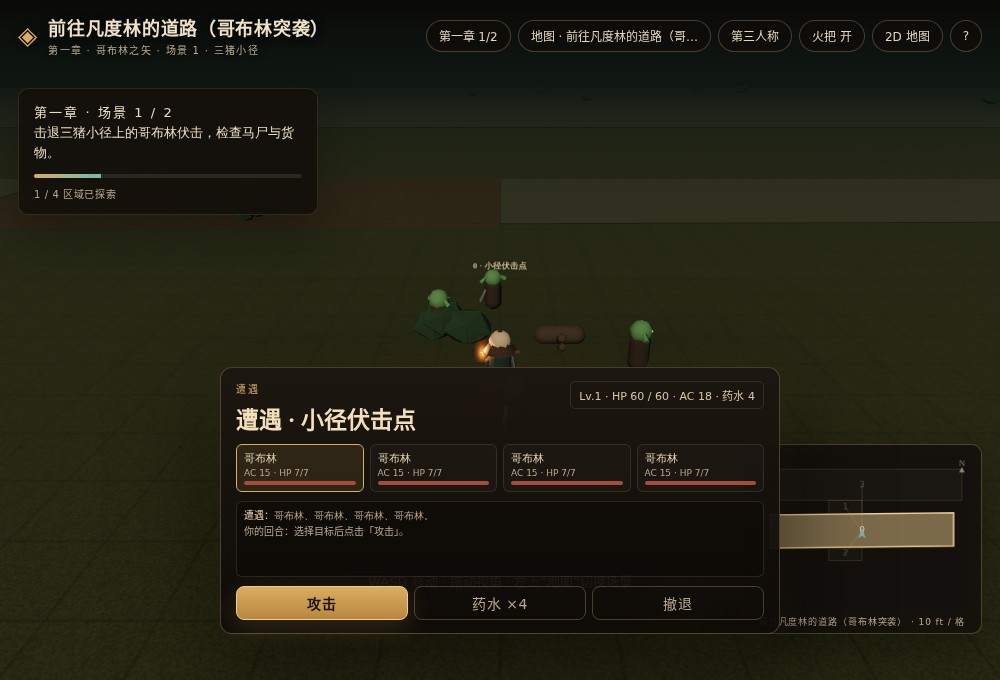
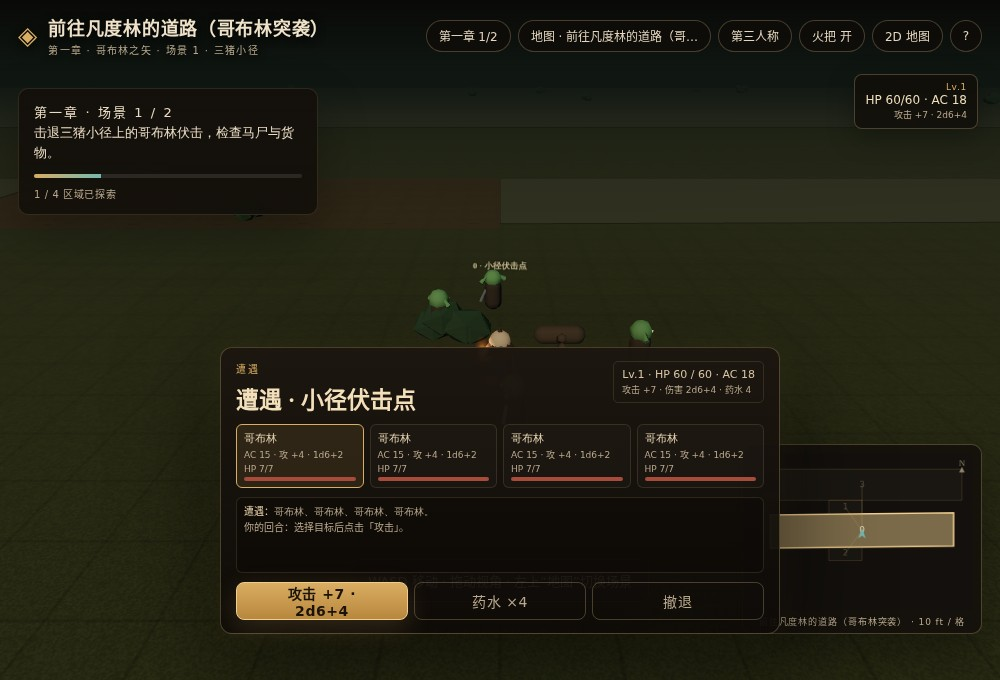
feat(lmop-3d): show full character stats
- persistent HUD with level, HP, AC, attack and damage
- character sheet with abilities, saves, all 18 skills, initiative, speed, proficiency, passive perception, potions and XP
- combat HUD and enemy cards show attack/damage/AC/HP
- intro summary and updated screenshots

diff --git a/prototype/lmop-3d/main.js b/prototype/lmop-3d/main.js
@@ -25,8 +25,18 @@ const CAMPAIGN = [
     objective: '穿过暗哨、狼舍与天桥，找到区域 8 的克拉格，救出西达尔。', done: '克拉格已击败，西达尔获救。',
     outro: '克拉格倒下，西达尔·荷温特获救。他告诉你：刚铎被带去了克拉格莫城堡。' },
 ];
-const PLAYER_BASE = { level: 1, hp: 60, maxHp: 60, ac: 18, atk: 7, dmg: [2, 6, 4], potions: 4, xp: 0 };
-const PLAYER_LEVEL2 = { level: 2, hp: 80, maxHp: 80, ac: 19, atk: 8, dmg: [2, 8, 4], potions: 5, xp: 200 };
+const PLAYER_BASE = {
+  level: 1, hp: 60, maxHp: 60, ac: 18, atk: 7, dmg: [2, 6, 4], potions: 4, xp: 0, speed: 30, prof: 2,
+  abilities: { str: 16, dex: 14, con: 14, int: 10, wis: 12, cha: 10 },
+  saves: { str: 5, dex: 2, con: 2, int: 0, wis: 1, cha: 0 },
+  skills: { athletics: 5, acrobatics: 4, sleight: 2, stealth: 4, investigation: 0, perception: 3, survival: 3, persuasion: 2, deception: 2, intimidation: 2, insight: 3, medicine: 1, nature: 1, religion: 0, history: 0, arcana: 0, animal: 3, performance: 2 },
+};
+const PLAYER_LEVEL2 = {
+  level: 2, hp: 80, maxHp: 80, ac: 19, atk: 8, dmg: [2, 8, 4], potions: 5, xp: 200, speed: 30, prof: 3,
+  abilities: { str: 18, dex: 16, con: 16, int: 10, wis: 12, cha: 10 },
+  saves: { str: 6, dex: 3, con: 3, int: 0, wis: 1, cha: 0 },
+  skills: { athletics: 7, acrobatics: 5, sleight: 3, stealth: 5, investigation: 0, perception: 4, survival: 4, persuasion: 3, deception: 3, intimidation: 3, insight: 4, medicine: 1, nature: 1, religion: 0, history: 0, arcana: 0, animal: 3, performance: 2 },
+};
 const MONSTER_STATS = {
   goblin: { ac: 15, hp: 7, atk: 4, dmg: [1, 6, 2], xp: 50 },
   'goblin-boss': { ac: 15, hp: 10, atk: 4, dmg: [1, 6, 2], xp: 100 },
@@ -38,6 +48,17 @@ const MONSTER_STATS = {
   spider: { ac: 14, hp: 26, atk: 5, dmg: [1, 8, 3], xp: 200 },
   twig: { ac: 13, hp: 4, atk: 3, dmg: [1, 4, 1], xp: 25 },
 };
+const ABILITY_ZH = { str: '力量', dex: '敏捷', con: '体质', int: '智力', wis: '感知', cha: '魅力' };
+const SKILLS = [
+  ['athletics', '运动', 'str'], ['acrobatics', '体操', 'dex'], ['stealth', '隐匿', 'dex'], ['perception', '察觉', 'wis'],
+  ['investigation', '调查', 'int'], ['survival', '生存', 'wis'], ['persuasion', '游说', 'cha'], ['deception', '欺瞒', 'cha'],
+  ['intimidation', '威吓', 'cha'], ['insight', '洞悉', 'wis'], ['medicine', '医药', 'wis'], ['nature', '自然', 'int'],
+  ['religion', '宗教', 'int'], ['history', '历史', 'int'], ['arcana', '奥秘', 'int'], ['animal', '驯兽', 'wis'],
+  ['sleight', '巧手', 'dex'], ['performance', '表演', 'cha'],
+];
+function mod(score) { return Math.floor((score - 10) / 2); }
+function signed(n) { return n >= 0 ? `+${n}` : `${n}`; }
+function damageText(p = playerStats) { return `${p.dmg[0]}d${p.dmg[1]}${p.dmg[2] ? '+' + p.dmg[2] : ''}`; }
 function playerStatsReset() { Object.assign(playerStats, PLAYER_BASE); }
 function playerStatsLevel2() { Object.assign(playerStats, PLAYER_LEVEL2); }
 const playerStats = { ...PLAYER_BASE };
@@ -189,6 +210,7 @@ function loadMap(mapId, { initial = false, quiet = false, campaign = false } = {
   if (world) { disposeGroup(world.group); world = null; player = null; }
   if (region) { disposeGroup(region.group); region = null; }
   clearTimeout(state.encounterTimer);
+  closeSheet();
   combat = null;
   $('#combat').classList.add('hidden');
   $('#area-encounter').classList.add('hidden');
@@ -242,6 +264,7 @@ function loadMap(mapId, { initial = false, quiet = false, campaign = false } = {
   updateBrand();
   updateObjective();
   updateIntro();
+  updatePlayerHud();
   drawMinimap();
   if (!initial && !quiet) toastMsg(`已切换到 ${map.title}`, 1800);
 }
@@ -262,6 +285,8 @@ function updateIntro() {
   if (stat) stat.textContent = state.campaign.active ? '2' : String((map.areas || []).length || (map.sites || []).length);
   const statLabel = document.querySelector('.intro-card .stat span');
   if (statLabel) statLabel.textContent = state.campaign.active ? '场景' : '区域';
+  const line = $('#intro-sheet-line');
+  if (line) line.textContent = `Lv.${playerStats.level} · HP ${playerStats.hp} · AC ${playerStats.ac} · 攻击 ${signed(playerStats.atk)} · 伤害 ${damageText()} · 药水 ${playerStats.potions}`;
 }
 
 function updateBrand() {
@@ -310,6 +335,7 @@ function showModeUi() {
     $('#area-panel').classList.add('hidden');
     $('#region-panel').classList.add('hidden');
     $('#minimap-wrap').classList.add('hidden');
+    $('#btn-sheet').classList.add('hidden');
   }
 }
 
@@ -393,6 +419,8 @@ function bindUI() {
     toastMsg('自由探索模式', 1800);
   });
   $('#btn-story').addEventListener('click', resumeCampaign);
+  $('#btn-sheet').addEventListener('click', toggleSheet);
+  $('#sheet-close').addEventListener('click', closeSheet);
   $('#area-encounter').addEventListener('click', () => { if (state.pendingEncounter && !combat) startCombat(state.pendingEncounter); });
   $('#combat-attack').addEventListener('click', playerAttack);
   $('#combat-potion').addEventListener('click', usePotion);
@@ -432,9 +460,10 @@ function bindUI() {
     if (['KeyW', 'KeyA', 'KeyS', 'KeyD', 'ArrowUp', 'ArrowDown', 'ArrowLeft', 'ArrowRight', 'ShiftLeft', 'ShiftRight'].includes(e.code)) {
       state.keys.add(e.code); if (e.code.startsWith('Arrow')) e.preventDefault();
     }
+    if (e.code === 'KeyC') toggleSheet();
     if (e.code === 'KeyF') toggleTorch();
     if (e.code === 'KeyR') resetPlayer();
-    if (e.code === 'Escape') closePicker();
+    if (e.code === 'Escape') { closePicker(); closeSheet(); }
   });
   window.addEventListener('keyup', (e) => state.keys.delete(e.code));
   window.addEventListener('blur', () => state.keys.clear());
@@ -492,7 +521,9 @@ function start() {
   $('#intro').classList.add('hidden');
   $('#loading').classList.add('hidden');
   $('#topbar').classList.remove('hidden');
+  $('#btn-sheet').classList.remove('hidden');
   showModeUi();
+  updatePlayerHud();
   updateObjective();
   if (state.mode === 'map') { if (state.currentArea) updatePanel(state.currentArea); drawMinimap(); }
   setTimeout(() => toastMsg(state.mode === 'region' ? '拖动旋转 · 滚轮缩放 · 点击地点' : isTouchDevice ? '左侧摇杆移动 · 右侧拖动视角 · 左上“地图”切换场景' : 'WASD 移动 · 拖动视角 · 左上“地图”切换场景', 3400), 500);
@@ -501,6 +532,36 @@ function start() {
 }
 
 
+
+
+/* ---------------------------------------------------------------- character sheet */
+function updatePlayerHud() {
+  const b = $('#btn-sheet');
+  if (!b) return;
+  $('#ph-level').textContent = `Lv.${playerStats.level}`;
+  $('#ph-main').textContent = `HP ${Math.max(0, playerStats.hp)}/${playerStats.maxHp} · AC ${playerStats.ac}`;
+  $('#ph-sub').textContent = `攻击 ${signed(playerStats.atk)} · ${damageText()}`;
+  b.title = `角色数值（C）· Lv.${playerStats.level}`;
+}
+function renderSheet() {
+  if ($('#sheet').classList.contains('hidden')) return;
+  const p = playerStats;
+  $('#sheet-name').textContent = '冒险者';
+  $('#sheet-sub').textContent = `Lv.${p.level} · 竖切片角色 · ${p.level >= 2 ? '第一章后半' : '第一章开场'}`;
+  $('#sheet-hp-fill').style.width = `${Math.max(0, p.hp / p.maxHp * 100)}%`;
+  $('#sheet-hp-text').textContent = `HP ${Math.max(0, p.hp)} / ${p.maxHp}`;
+  const vitals = [
+    ['AC', p.ac], ['攻击', signed(p.atk)], ['伤害', damageText(p)], ['先攻', signed(mod(p.abilities.dex))],
+    ['速度', `${p.speed} ft`], ['熟练', signed(p.prof)], ['被动察觉', 10 + (p.skills.perception ?? mod(p.abilities.wis))], ['药水', p.potions], ['XP', p.xp],
+  ];
+  $('#sheet-vitals').innerHTML = vitals.map(([k, v]) => `<div><span>${k}</span><b>${v}</b></div>`).join('');
+  $('#sheet-abilities').innerHTML = Object.entries(p.abilities).map(([k, v]) => `<div><span>${ABILITY_ZH[k]}</span><b>${v}</b><i>${signed(mod(v))}</i></div>`).join('');
+  $('#sheet-saves').innerHTML = Object.entries(p.saves).map(([k, v]) => `<div><span>${ABILITY_ZH[k]}</span><b>${signed(v)}</b><i>豁免</i></div>`).join('');
+  $('#sheet-skills').innerHTML = SKILLS.map(([k, label, ab]) => `<div><span>${label} <em>${ABILITY_ZH[ab]}</em></span><b>${signed(p.skills[k] ?? mod(p.abilities[ab]))}</b></div>`).join('');
+}
+function openSheet() { if (!state.started) return; $('#sheet').classList.remove('hidden'); renderSheet(); updatePlayerHud(); }
+function closeSheet() { $('#sheet').classList.add('hidden'); }
+function toggleSheet() { if ($('#sheet').classList.contains('hidden')) openSheet(); else closeSheet(); }
 
 /* ---------------------------------------------------------------- combat */
 function combatLog(html) {
@@ -543,11 +604,14 @@ function renderCombat() {
   for (const [i, e] of combat.enemies.entries()) {
     const card = document.createElement('div');
     card.className = `combat-enemy${e.alive ? '' : ' dead'}${i === selectedEnemy && e.alive ? ' selected' : ''}`;
-    card.innerHTML = `<b>${escapeHtml(e.name)}</b><small>AC ${e.ac} · HP ${e.hp}/${e.maxHp}</small><div class="hp-track"><i style="width:${Math.max(0, e.hp / e.maxHp * 100)}%"></i></div>`;
+    card.innerHTML = `<b>${escapeHtml(e.name)}</b><small>AC ${e.ac} · 攻 ${signed(e.atk)} · ${e.dmg[0]}d${e.dmg[1]}+${e.dmg[2]}</small><small>HP ${e.hp}/${e.maxHp}</small><div class="hp-track"><i style="width:${Math.max(0, e.hp / e.maxHp * 100)}%"></i></div>`;
     if (e.alive) card.addEventListener('click', () => { selectedEnemy = i; renderCombat(); });
     box.append(card);
   }
-  $('#combat-player').textContent = `Lv.${playerStats.level} · HP ${Math.max(0, playerStats.hp)} / ${playerStats.maxHp} · AC ${playerStats.ac} · 药水 ${playerStats.potions}`;
+  $('#combat-player').innerHTML = `Lv.${playerStats.level} · HP ${Math.max(0, playerStats.hp)} / ${playerStats.maxHp} · AC ${playerStats.ac}<small>攻击 ${signed(playerStats.atk)} · 伤害 ${damageText()} · 药水 ${playerStats.potions}</small>`;
+  $('#combat-attack').textContent = `攻击 ${signed(playerStats.atk)} · ${damageText()}`;
+  updatePlayerHud();
+  renderSheet();
   const disabled = combat.turn !== 'player';
   $('#combat-attack').disabled = disabled;
   $('#combat-potion').disabled = disabled || playerStats.potions <= 0;
@@ -614,6 +678,7 @@ function usePotion() {
   const heal = rollDice(2, 4, 2);
   playerStats.potions--;
   playerStats.hp = Math.min(playerStats.maxHp, playerStats.hp + heal);
+  updatePlayerHud(); renderSheet();
   combatLog(`<b>你</b> 喝下药水，恢复 ${heal} 点生命。`);
   combat.turn = 'enemy'; renderCombat();
   setTimeout(enemyTurn, 620);
@@ -630,6 +695,8 @@ function endCombat(result) {
   $('#combat').classList.add('hidden');
   $('#area-panel').classList.remove('hidden');
   showModeUi();
+  updatePlayerHud();
+  renderSheet();
   if (result === true) {
     area.cleared = true;
     for (const e of c.enemies) { e.alive = false; e.obj.visible = false; }

diff --git a/prototype/lmop-3d/styles.css b/prototype/lmop-3d/styles.css
@@ -364,3 +364,54 @@ button { font: inherit; color: inherit; }
   .combat-enemy { min-width: 80px; padding: 5px 6px; }
   .combat-log { height: 58px; font-size: 9px; }
 }
+
+/* ---------- player hud / sheet ---------- */
+.player-hud {
+  position: absolute; z-index: 18; right: 22px; top: 74px;
+  display: grid; gap: 1px; text-align: right; padding: 7px 10px;
+  border: 1px solid var(--line); border-radius: 8px; cursor: pointer;
+  background: rgba(17,13,9,.82); backdrop-filter: blur(8px);
+  color: #ead7b3; box-shadow: 0 8px 28px rgba(0,0,0,.3);
+}
+.player-hud:hover { border-color: var(--gold); }
+.player-hud .ph-level { font-size: 9px; color: var(--gold); letter-spacing: .08em; }
+.player-hud .ph-main { font-size: 12px; color: #f1dfbd; }
+.player-hud .ph-sub { font-size: 9px; color: var(--muted); }
+.sheet {
+  position: absolute; z-index: 35; right: 18px; top: 84px;
+  width: min(380px, calc(100vw - 24px)); max-height: calc(100vh - 110px); overflow: auto;
+  padding: 15px 16px; border: 1px solid var(--line); border-radius: 12px;
+  background: linear-gradient(180deg, rgba(28,22,16,.98), rgba(13,10,8,.97));
+  box-shadow: 0 30px 110px rgba(0,0,0,.6); backdrop-filter: blur(10px);
+}
+.sheet.hidden { display: none; }
+.sheet-head { display: flex; justify-content: space-between; align-items: flex-start; gap: 10px; }
+.sheet-head h2 { margin: 1px 0 1px; font-family: var(--page); font-size: 30px; color: #f5e3c1; }
+.sheet-head p:last-child { margin: 0; font-size: 10px; color: var(--muted); }
+.sheet-hp { display: flex; align-items: center; gap: 8px; margin: 11px 0 9px; }
+.sheet-hp .hp-track { flex: 1; height: 7px; background: rgba(255,255,255,.07); border-radius: 4px; overflow: hidden; }
+.sheet-hp .hp-track i { display: block; height: 100%; width: 100%; background: linear-gradient(90deg,#8f3f32,#c06a4a); }
+.sheet-hp span { font-size: 10px; color: #d8c5a5; white-space: nowrap; }
+.sheet-vitals { display: grid; grid-template-columns: repeat(3, 1fr); gap: 5px; }
+.sheet-vitals div { padding: 6px 7px; border: 1px solid var(--line-soft); border-radius: 5px; }
+.sheet-vitals span { display: block; font-size: 8px; color: var(--muted); letter-spacing: .04em; }
+.sheet-vitals b { display: block; margin-top: 1px; font-size: 13px; color: #efd9b4; font-weight: 500; }
+.sheet h3 { margin: 12px 0 5px; font-size: 9px; font-weight: 500; letter-spacing: .14em; color: var(--gold); text-transform: uppercase; }
+.sheet-abilities { display: grid; grid-template-columns: repeat(6, 1fr); gap: 4px; }
+.sheet-abilities div { text-align: center; padding: 5px 2px; border: 1px solid var(--line-soft); border-radius: 5px; }
+.sheet-abilities span { display: block; font-size: 8px; color: var(--muted); }
+.sheet-abilities b { display: block; font-size: 14px; color: #f0dfc0; font-weight: 500; }
+.sheet-abilities i { display: block; font-size: 8px; color: #9fbfb8; font-style: normal; }
+.sheet-skills { display: grid; grid-template-columns: 1fr 1fr; gap: 2px 8px; }
+.sheet-skills div { display: flex; justify-content: space-between; gap: 6px; font-size: 10px; color: #bfae91; padding: 2px 0; border-bottom: 1px dotted rgba(255,255,255,.06); }
+.sheet-skills b { color: #ead7b3; font-weight: 500; }
+.sheet-note { margin: 11px 0 0; font-size: 9px; line-height: 1.55; color: #8f806a; }
+.combat-player { line-height: 1.5; }
+.combat-player small { display: block; color: var(--muted); font-size: 9px; }
+@media (max-width: 760px) {
+  .player-hud { top: 202px; right: 10px; padding: 5px 8px; }
+  .player-hud .ph-sub { display: none; }
+  .sheet { top: auto; bottom: 12px; right: 12px; left: 12px; width: auto; max-height: 62vh; }
+}
+.sheet-skills em { font-style: normal; color: #7f8f88; font-size: 8px; margin-left: 3px; }
+.intro-sheet-line { margin: 8px 0 0; font-size: 10px; letter-spacing: .04em; color: #bfae91; }

diff --git a/prototype/lmop-3d/index.html b/prototype/lmop-3d/index.html
@@ -27,6 +27,7 @@
         <div class="stat"><b>5 ft</b><span>原图方格</span></div>
         <div class="stat"><b>117</b><span>全图连接</span></div>
       </div>
+      <p class="intro-sheet-line" id="intro-sheet-line">Lv.1 · HP 60 · AC 18 · 攻击 +7 · 伤害 2d6+4 · 药水 4</p>
       <ul class="intro-points">
         <li><span>01</span>从三猪小径的哥布林伏击开始，跑完第一章两个场景与两场战斗。</li>
         <li><span>02</span>WASD 移动 · 拖动鼠标看 · 滚轮远近 · F 火把。</li>
@@ -65,6 +66,12 @@
     <div class="progress"><span id="progress-fill"></span></div>
     <small><span id="progress-text">0 / 8</span> 区域已探索</small>
   </aside>
+
+  <button id="btn-sheet" class="player-hud hidden" title="角色数值（C）">
+    <span class="ph-level" id="ph-level">Lv.1</span>
+    <span class="ph-main" id="ph-main">HP 60/60 · AC 18</span>
+    <span class="ph-sub" id="ph-sub">攻击 +7 · 2d6+4</span>
+  </button>
 
   <aside id="area-panel" class="area-panel hidden" aria-live="polite">
     <p class="eyebrow"><span id="area-light">黑暗</span> · 区域 <span id="area-no">1</span></p>
@@ -123,6 +130,26 @@
     <p id="chapter-objective"></p>
   </div>
   <div id="fade" class="fade"></div>
+
+  <aside id="sheet" class="sheet hidden" role="dialog" aria-modal="false">
+    <header class="sheet-head">
+      <div>
+        <p class="eyebrow">角色</p>
+        <h2 id="sheet-name">冒险者</h2>
+        <p id="sheet-sub">Lv.1 · 竖切片角色</p>
+      </div>
+      <button id="sheet-close" class="chip">关闭</button>
+    </header>
+    <div class="sheet-hp"><div class="hp-track"><i id="sheet-hp-fill"></i></div><span id="sheet-hp-text">HP 60 / 60</span></div>
+    <div id="sheet-vitals" class="sheet-vitals"></div>
+    <h3>属性</h3>
+    <div id="sheet-abilities" class="sheet-abilities"></div>
+    <h3>豁免</h3>
+    <div id="sheet-saves" class="sheet-abilities"></div>
+    <h3>技能</h3>
+    <div id="sheet-skills" class="sheet-skills"></div>
+    <p class="sheet-note">战斗选择主要看 HP、AC、攻击/伤害与药水；探索/对话选择看对应技能调整值。</p>
+  </aside>
 
   <section id="combat" class="combat hidden" aria-live="polite">
     <div class="combat-head">

diff --git a/prototype/lmop-3d/README.md b/prototype/lmop-3d/README.md
@@ -38,6 +38,17 @@
 | 裂皮（狼） | 14 | 18 | +5 | 2d6+3 | 100 |
 | 熊地精（克拉格） | 16 | 27 | +4 | 2d8+2 | 200 |
 
+## 角色数值
+
+点右上角 HUD 或按 `C` 打开角色面板，显示：
+
+- 等级、HP / 最大 HP、AC、攻击加值、伤害骰、先攻、速度、熟练加值、被动察觉、药水、XP。
+- 六项属性值与调整值（力量/敏捷/体质/智力/感知/魅力）。
+- 六项豁免调整值。
+- 18 项技能调整值（运动、体操、隐匿、察觉、调查、生存、游说、欺瞒、威吓、洞悉、医药、自然、宗教、历史、奥秘、驯兽、巧手、表演）。
+- 战斗 HUD 同步显示 `Lv / HP / AC / 攻击 / 伤害 / 药水`；敌人卡显示 `AC / 攻击 / 伤害 / HP`，方便按数值选目标。
+- 场景 2 升到 Lv.2 后，HP/AC/攻击/伤害/豁免/技能会同步更新。
+
 ## 8 张地图（自由探索）
 
 | 地图 | 类型 | 区域/地点 |
@@ -57,7 +68,7 @@
 
 - **剧情**：开场「开始第一章」；左上「第一章 1/2」可回到当前场景；「地图」进入自由探索。
 - 可走入地图：`WASD` / 方向键移动；`Shift` 疾走；拖动鼠标旋转；滚轮缩放；`F` 火把；`R` 回起点。
-- 战斗：选择敌人卡片 →「攻击」；低血量用「药水」；「撤退」离开。
+- 战斗：选择敌人卡片 →「攻击」；低血量用「药水」；「撤退」离开；右上角 HUD / `C` 看角色数值。
 - 手机：左侧摇杆移动，右侧拖动视角；战斗面板在下方，自动隐藏摇杆。
 
 ## 数据与代码
@@ -110,6 +121,7 @@ python3 -m http.server 4174
 
 ![After — intro](screenshots/after-intro-1200.jpg)
 ![After — ambush combat](screenshots/after-combat-1000.jpg)
+![After — character sheet](screenshots/after-sheet-1200.jpg)
 ![After — entrance](screenshots/after-entrance-1200.jpg)
 ![After — bridge](screenshots/after-bridge-1200.jpg)
 ![After — Klarg](screenshots/after-klarg-1200.jpg)
@@ -120,7 +132,7 @@ python3 -m http.server 4174
 ## 验证
 
 - 第一章完整流程：三猪小径战斗 → 场景 1 完成 → 克拉格莫窝点 → 克拉格战斗 → 场景 2 完成 → 第一章完成面板。
-- 战斗：攻击/药水/撤退/胜利结算/失败重生；移动锁定；敌人死亡消失。
+- 战斗：攻击/药水/撤退/胜利结算/失败重生；移动锁定；敌人死亡消失；角色面板/战斗 HUD/敌人卡均显示数值。
 - 8 张地图自由探索可切换；区域图 17 个地点；区域触发与小地图正常。
 - 手机 390：战斗面板无横向溢出，摇杆在战斗时隐藏。
 - 数据仍由 `scripts/lmop-atlas-validate.mjs` 与 `npm test` 校验。
